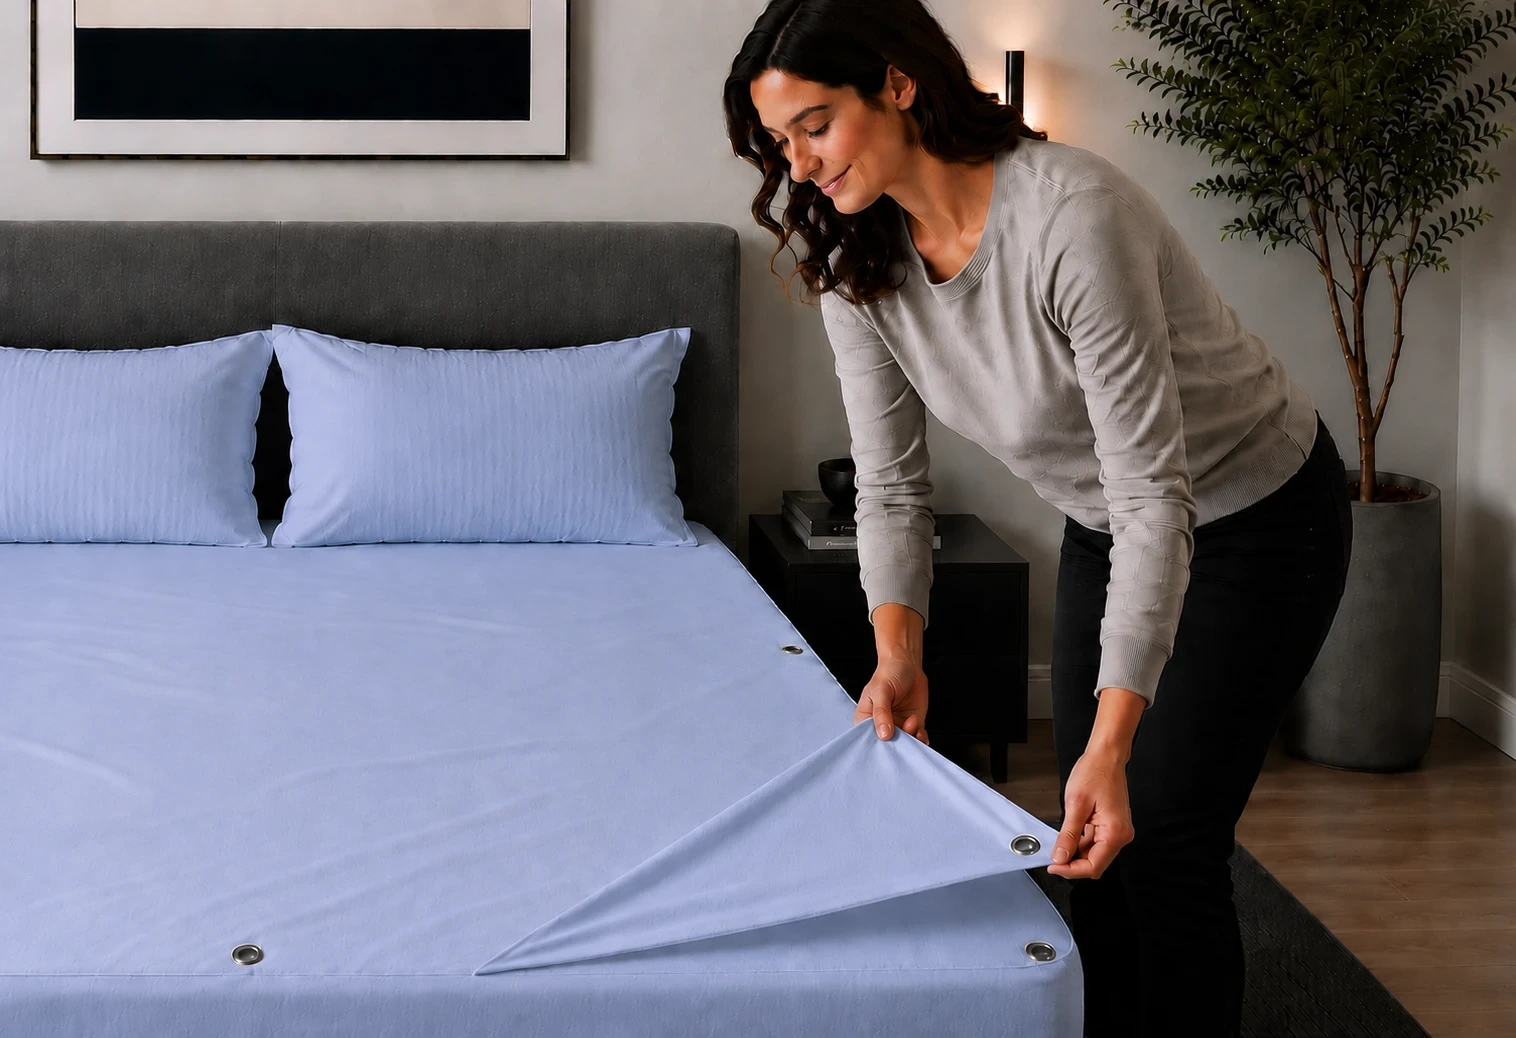
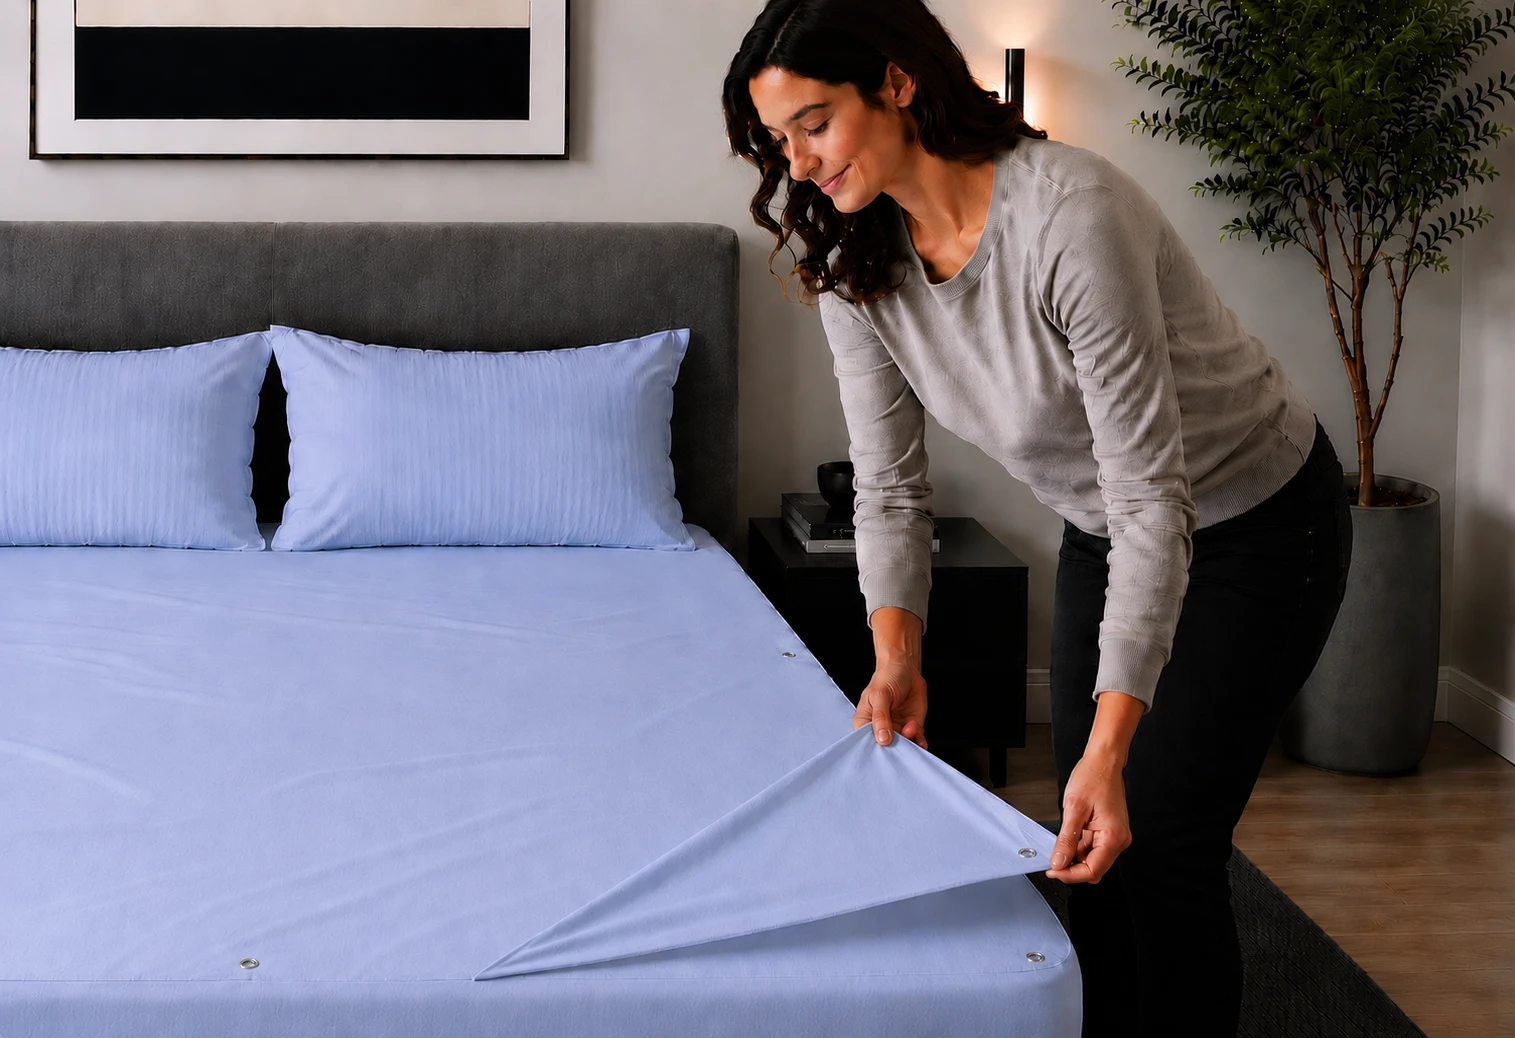
Replace Easier on Your Back photo with supplied file (#11)
Installs the supplied version of the peel-back shot over
public/placeholders/top-sheet-peel-back.webp, which is what the "Easier
on Your Back" lifestyle tile on the homepage renders.

The supplied file is a distinct image from the one it replaces — 1515x1038
and 194,744 bytes against the previous 1516x1038 and 172,848 bytes — so it
is installed byte-for-byte as handed over, with no recrop or re-encode.

No layout code changes: the tile scales the photo to fit with
object-contain, so the frame is never cropped and the hardcoded next/image
width/height hints stay valid.

Claude-Session: https://claude.ai/code/session_018XqTjZN4mykHEcPzNCnBRT

diff --git a/public/placeholders/README.md b/public/placeholders/README.md
@@ -26,7 +26,7 @@ edges. Note what was done in the file's row below.
 | `snap-closeup.webp` | Home "Remove" step + Product "Unsnap" step | Final photo (in place): both snaps — sheet corner folded back over the base snap. 1054x1492 WebP, retouched. Scales to fit its tile, so neither snap is cropped. |
 | `laundry-basket.webp` | Home + Product "Wash" step | Final photo (in place): bottom sheet lifted from the laundry basket into the washing machine. 1015x1550 WebP — high-DPI sharp, and portrait like the other two step photos. |
 | `snap-corner-navy.webp` | Home + Product "Reattach" step | Final photo (in place): fitted-base corner with the sheet snapped over the grommet, shot over the navy rug. Natural aspect, uncropped. |
-| `top-sheet-peel-back.webp` | Home lifestyle (Easier on Your Back) | Final photo (in place): lifting the top sheet off the snaps. Improved version: the four grommets, which had photographed brass, were recolored to the nickel hardware the product ships with and the rest of the frame left untouched, so they match `snap-corner-navy.webp` and the other snap photos. |
+| `top-sheet-peel-back.webp` | Home lifestyle (Easier on Your Back) | Final photo (in place): a woman lifting the bottom sheet off the nickel grommets. Supplied file installed as-is at 1515x1038 WebP, replacing the earlier 1516x1038 version — not recropped or re-encoded, so it is byte-for-byte what was handed over. Renders `object-contain` in the 4:3 lifestyle tile, so the wider frame letterboxes rather than cropping. |
 | `kid-changing-bed.webp` | Home lifestyle (Easy Enough for Kids) + Legal hero | Final photo (in place): a boy changing his own bed. Used on two pages. |
 | `family-pet-bed.webp` | Home lifestyle (Made for Real Life) | Final photo (in place): girl and dog on the bed, nickel grommet visible at the sheet corner. Supplied square (1254x1254) where the lifestyle tiles are 4:3, so the margin either side was extended to 1672x1254 with `scripts/pad-to-aspect.py` — the photo's own edge columns stretched out, blurred and desaturated with distance — and the frame itself is untouched, so the tile fills without cropping the shot. |
 | `system-diagram-clean.webp` | Home two-part system | Final diagram (in place). Derived from the supplied graphic by masking out its baked-in heading, copy and callout labels and cropping to the illustration, so the page renders that text live and editable. The supplied graphic ran out of canvas before the foundation closed, so the bottom of that box — its front corner and third leg — was drawn back in from the surrounding line work; the layers, the callout dots and their leader lines are untouched. The three leader lines leave the right edge at 8.58%, 24.38% and 45.88% of the image height, which is what the Home callouts are pinned to. |
